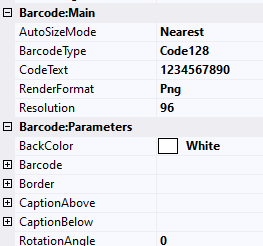
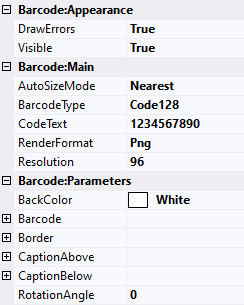
BARCODEREP-134 Added Dynamically Display Barcodes in Table article Added changes to other articles.

diff --git a/reportingservices/programmers-guide/dynamically-display-barcodes-in-table/_index.md b/reportingservices/programmers-guide/dynamically-display-barcodes-in-table/_index.md
@@ -1,0 +1,99 @@
+---
+title: Dynamically Display Barcodes in Table
+type: docs
+weight: 40
+url: /reportingservices/dynamically-display-barcodes-in-table/
+---
+## **Overview**
+Sometimes we need to show barcode label depending from obtained variables like field values. In most cases we can use ***Hidden*** property from ***Visibility*** group to dynamically hide component. Unfortunately, [Custom Report Items](https://docs.microsoft.com/sql/reporting-services/custom-report-items/custom-report-items) technology does not support dynamic settings in ***Visibility*** group, it can be set only to two defined values: ***True*** or ***False***. 
+
+The problem can be solved with ***Image*** component and Custom Code with barcode image data generation by ***BarcodeGenerator class***. Additionally, you can use ***Visible*** property of ***BarcodeGenerator visual component***. This article provides information about both ways of dynamic barcode label displaying.
+## **Project Preparations**
+This section described preparation steps to create project structure which can be used for both methods.
+
+1. Create blank report project and attach DataSource and DataSet to the project. You can see from these examples how to add [DataSource](https://docs.microsoft.com/sql/reporting-services/lesson-2-specifying-connection-information-reporting-services) and [DataSet](https://docs.microsoft.com/sql/reporting-services/lesson-3-defining-a-dataset-for-the-table-report-reporting-services) to the report.
+
+**Table Name: Phones**
+
+|**Column Name**|**Description**|
+| :- | :- |
+|**id**|Auto number. Used as primary key |
+|**Model**| Model description, text field.|
+|**OS**| Operational System description, text field.|
+|**Serial**| Serial number, text field.|
+
+After attaching DataSet to the project, you should see on the ***Report Data*** toolbox something like this:
+
+<img style="border:1px solid black;" src="dynamic_preparation_01.png" alt="Phones DataSet" />
+
+2. Drag-and-drop ***Table*** report item on report surface.
+
+<img style="border:1px solid black;" src="dynamic_preparation_02.png" alt="Add Table item to report" />
+## **How to Dynamically Show Barcode Label with Custom Code**
+
+Any embedded ***Report Item*** control allows to dynamically hide or show component from evaluated expression. In this way we can use ***Image*** report control and render barcode label as image data. To show barcode label this way we need to implement the following steps.
+
+1. Add ***Image*** Report Item to the table column.
+
+<img style="border:1px solid black;" src="dynamic_customcode_01.png" alt="Add Image item to report" />
+[dynamic_customcode_01.png]
+
+2. Open ***Report Properties*** section ***References*** and add references to the ***Aspose.BarCode for Reporting Services*** and ***System.Drawing***.
+
+{{< highlight txt>}}
+Aspose.BarCode.ReportingServices
+System.Drawing, Version=4.0.0.0, Culture=neutral, PublicKeyToken=b03f5f7f11d50a3a
+{{< /highlight >}}
+
+<img style="border:1px solid black;" src="dynamic_customcode_02.png" alt="Report Properties, References" />
+
+3. Add current code to the ***Report Properties*** section ***Code***.
+{{< highlight vb>}}
+Public Function GetBarcodeImage(ByVal codetext As String) As Byte()
+    Dim builder As New Aspose.BarCode.Generation.BarcodeGenerator(Aspose.BarCode.Generation.EncodeTypes.QR, codetext)
+    builder.Parameters.Resolution = 300
+    Dim bitmap As System.Drawing.Bitmap = builder.GenerateBarCodeImage()
+    Dim ms As New System.IO.MemoryStream
+    bitmap.Save(ms, System.Drawing.Imaging.ImageFormat.Bmp)
+    Return ms.GetBuffer()
+End Function
+{{< /highlight >}}
+
+<img style="border:1px solid black;" src="dynamic_customcode_03.png" alt="Report Properties, Code" />
+
+4. Return to the ***Image*** Report Item, and set properties with these values:
+- ***Source*** to ***Database***;
+- ***MIMEType*** to ***image/bmp***;
+- ***Value*** to ***=Code.GetBarcodeImage(Fields!Serial.Value)***;
+- ***Hidden*** to ***=IIf(Fields!Serial.Value = "", True, False)***.
+
+<img style="border:1px solid black;" src="dynamic_customcode_04.png" alt="Image item, properties" />
+
+5. Drag-and-drop other DataSet fields to the table.
+
+6. Now you can see the full dataset, rendered as report. You can deploy the report to SSRS server or just pass to ***Preview*** section.
+
+<img style="border:1px solid black;" src="dynamic_customcode_05.png" alt="Preview result" />
+
+## **How to Dynamically Show Barcode Label with BarcodeGenerator Visual Component**
+
+***BarcodeGenerator visual component*** allows dynamically showing and hiding barcode label with ***Visible*** property. This property emulates component hiding which is visible the same as using ***Hidden*** property. To show barcode label this way we need to implement the following steps.
+
+1. Drag-and-drop ***BarcodeGenerator visual component*** to any of ***Table*** column.
+
+<img style="border:1px solid black;" src="dynamic_visual_01.png" alt="" />
+
+2. Drag-and-drop data fields from ***Report Data*** toolbox to the table columns. Put fields ***Serial*** to ***BarcodeGenerator*** component.
+
+<img style="border:1px solid black;" src="dynamic_visual_02.png" alt="" />
+
+3. Set properties of ***BarcodeGenerator*** component to ***BarcodeGenerator*** component
+- ***BarcodeType*** to ***QR***;
+- ***CodeText*** to ***=Fields!Serial.Value***;
+- ***Visible*** to ***=IIf(Fields!Serial.Value = "", False, True)***.
+
+<img style="border:1px solid black;" src="dynamic_visual_03.png" alt="" />
+
+4. Now you can see the full dataset, rendered as report. You can deploy the report to SSRS server or just pass to ***Preview*** section.
+
+<img style="border:1px solid black;" src="dynamic_visual_04.png" alt="" />

diff --git a/reportingservices/programmers-guide/barcodegenerator-visual-component/visual-component-properties/_index.md b/reportingservices/programmers-guide/barcodegenerator-visual-component/visual-component-properties/_index.md
@@ -5,13 +5,20 @@ weight: 10
 url: /reportingservices/visual-component-properties/
 ---
 ## **Overview**
-***BarcodeGenerator visual component*** properties is a similar to [BarcodeGenerator Parameters]( https://apireference.aspose.com/barcode/net/aspose.barcode.generation/barcodegenerator) and more detail information about their usage can be obtained from that section. Visual component split on ***Barcode:Main*** and ***Barcode:Parameters*** sections. ***Barcode:Main*** group contains main generation parameters which is required in most cases, ***Barcode:Parameters*** includes all other barcode generation parameters.
+***BarcodeGenerator visual component*** properties is a similar to [BarcodeGenerator Parameters]( https://apireference.aspose.com/barcode/net/aspose.barcode.generation/barcodegenerator) and more detail information about their usage can be obtained from that section. Visual component split on ***Barcode:Appearance***, ***Barcode:Main*** and ***Barcode:Parameters*** sections. ***Barcode:Appearance*** group contains parameters which affect component appearance and visibility, ***Barcode:Main*** group contains main generation parameters which is required in most cases, ***Barcode:Parameters*** includes all other barcode generation parameters.
 
 <img style="border:1px solid black;" src="properties_01.png" alt="BarcodeGenerator visual component properties" />
 
 The property groups influence can be seen on this image.
 
 <img style="border:1px solid black;" src="properties_02.png" alt="BarcodeGenerator visual component structure" />
+
+## **Barcode:Appearance Properties Group**
+***Barcode:Appearance*** group contains parameters which affect component appearance and visibility
+
+It contains the following parameters:
+- ***Visible*** - the barcode paraments affect barcode label visibility in ***Preview*** mode. Can contains report expressions.
+- ***DrawErrors*** - the barcode paraments disables or enables error drawing during barcode label generation. If it is disabled, component draws nothing in case error occurring.
 
 ## **Barcode:Main Properties Group**
 ***Barcode:Main*** properties group includes main generation parameters which is required in most cases. 

diff --git a/reportingservices/programmers-guide/barcodegenerator-visual-component/_index.md b/reportingservices/programmers-guide/barcodegenerator-visual-component/_index.md
@@ -42,9 +42,13 @@ At any time you can edit barcode label parameters with visual embedded editor wh
 <img style="border:1px solid black;" src="embedded_editor_01.png" alt="BarcodeGenerator visual component editor" />
 
 ## **Visual Component Properties**
-BarcodeGenerator visual component parameters can be edited in ***Properties*** toolbox. The properties are split on ***Barcode:Main*** and ***Barcode:Parameters***. 
+BarcodeGenerator visual component parameters can be edited in ***Properties*** toolbox. The properties are split on ***Barcode:Appearance***, ***Barcode:Main*** and ***Barcode:Parameters***. 
 
 <img style="border:1px solid black;" src="properties_01.png" alt="BarcodeGenerator visual component properties" />
+
+***Barcode:Appearance*** group contains parameters which affect component appearance and visibility and it includes the following parameters:
+- ***Visible*** - the barcode paraments affect barcode label visibility in ***Preview*** mode. Can contains report expressions.
+- ***DrawErrors*** - the barcode paraments disables or enables error drawing during barcode label generation. If it is disabled, component draws nothing in case error occurring.
 
 ***Barcode:Main*** group contains main generation parameters which is required in most cases and it includes the following parameters:
 - ***AutoSizeMode*** - specifies the different types of automatic sizing modes. The mode defines barcode image resizing to the component size. ***None*** resizes component size to barcode image size which is defined by other parameters. ***Nearest*** resizes barcode image size to nearest value which is fit to the component size. ***Interpolation*** precisely resizes barcode image size to component size value, but barcode can be damaged in low resolution mode. If you use ***Interpolation*** mode, set at least 300 dpi at ***Resolution*** property.

diff --git a/reportingservices/getting-started/barcodegenerator-visual-component/_index.md b/reportingservices/getting-started/barcodegenerator-visual-component/_index.md
@@ -23,6 +23,7 @@ Main component features:
 <img style="border:1px solid black;" src="ComponentProperties.png" alt="BarcodeGenerator Visual Component Properties" />
 
 ***BarcodeGenerator visual component*** allows to edit barcode label parameters in design time by changing properties, like any other Report Item. It contains two group of properties:
+- ***Barcode:Appearance*** – contains parameters which affect component appearance and visibility.
 - ***Barcode:Main*** – contains main barcode label parameters like codetext, barcode type or resolution.
 - ***Barcode:Parameters*** – contains all other barcode parameters, like barcode area edition or special barcode parameters.
 
